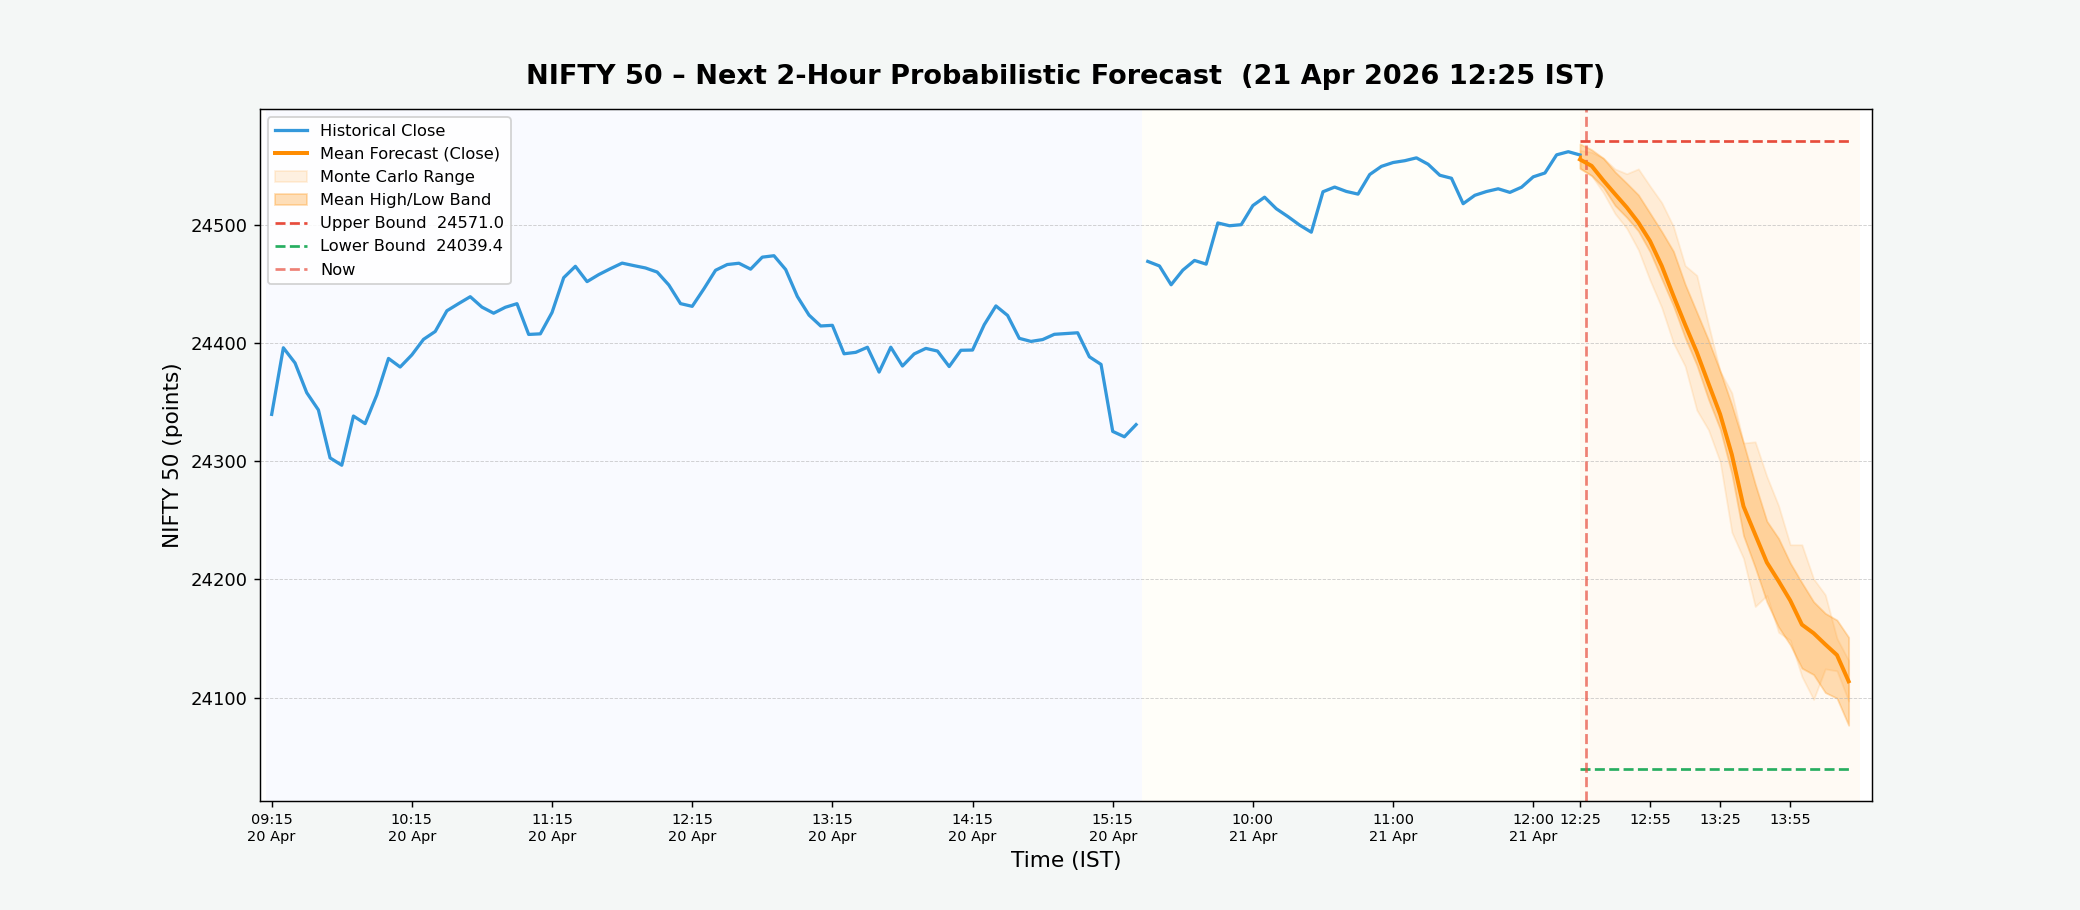
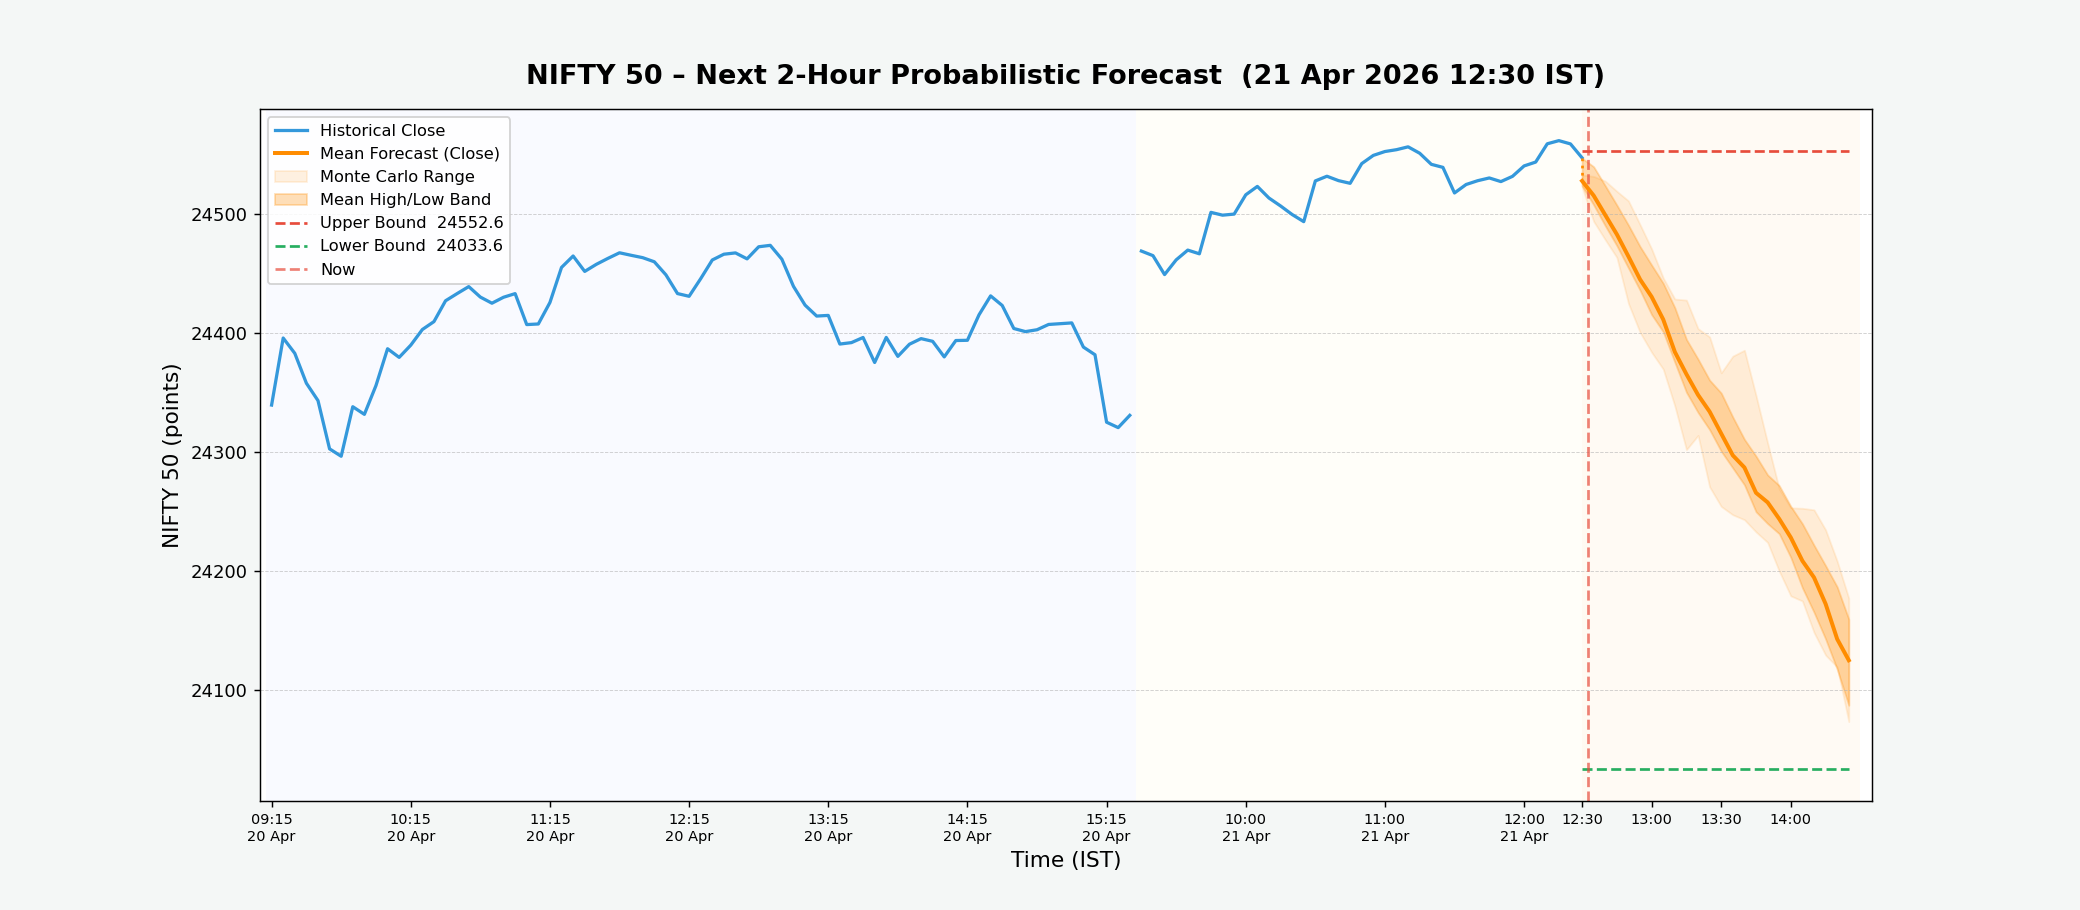
NIFTY forecast update – 2026-04-21 12:30 IST

diff --git a/index.html b/index.html
@@ -24,29 +24,29 @@
 
         <!-- Timestamp bar -->
         <div class="timestamp-bar">
-            <span>Last updated (IST):&nbsp;<strong id="update-time">2026-04-21 12:25:04</strong></span>
+            <span>Last updated (IST):&nbsp;<strong id="update-time">2026-04-21 12:30:04</strong></span>
         </div>
 
         <!-- Metric cards -->
         <div class="metrics-container">
             <div class="metric-card bullish">
                 <div class="metric-label">Bullish Bar Ratio</div>
-                <div class="metric-value" id="upside-prob">14.2%</div>
+                <div class="metric-value" id="upside-prob">9.6%</div>
                 <div class="metric-sub">Next 2h · close &gt; open %</div>
             </div>
             <div class="metric-card upper">
                 <div class="metric-label">Upper Bound</div>
-                <div class="metric-value" id="upper-bound">24571.0</div>
+                <div class="metric-value" id="upper-bound">24552.6</div>
                 <div class="metric-sub">Max predicted high</div>
             </div>
             <div class="metric-card lower">
                 <div class="metric-label">Lower Bound</div>
-                <div class="metric-value" id="lower-bound">24039.4</div>
+                <div class="metric-value" id="lower-bound">24033.6</div>
                 <div class="metric-sub">Min predicted low</div>
             </div>
             <div class="metric-card range">
                 <div class="metric-label">Predicted Range</div>
-                <div class="metric-value" id="pred-range">531.6 pts</div>
+                <div class="metric-value" id="pred-range">519.0 pts</div>
                 <div class="metric-sub">Upper − Lower spread</div>
             </div>
         </div>
